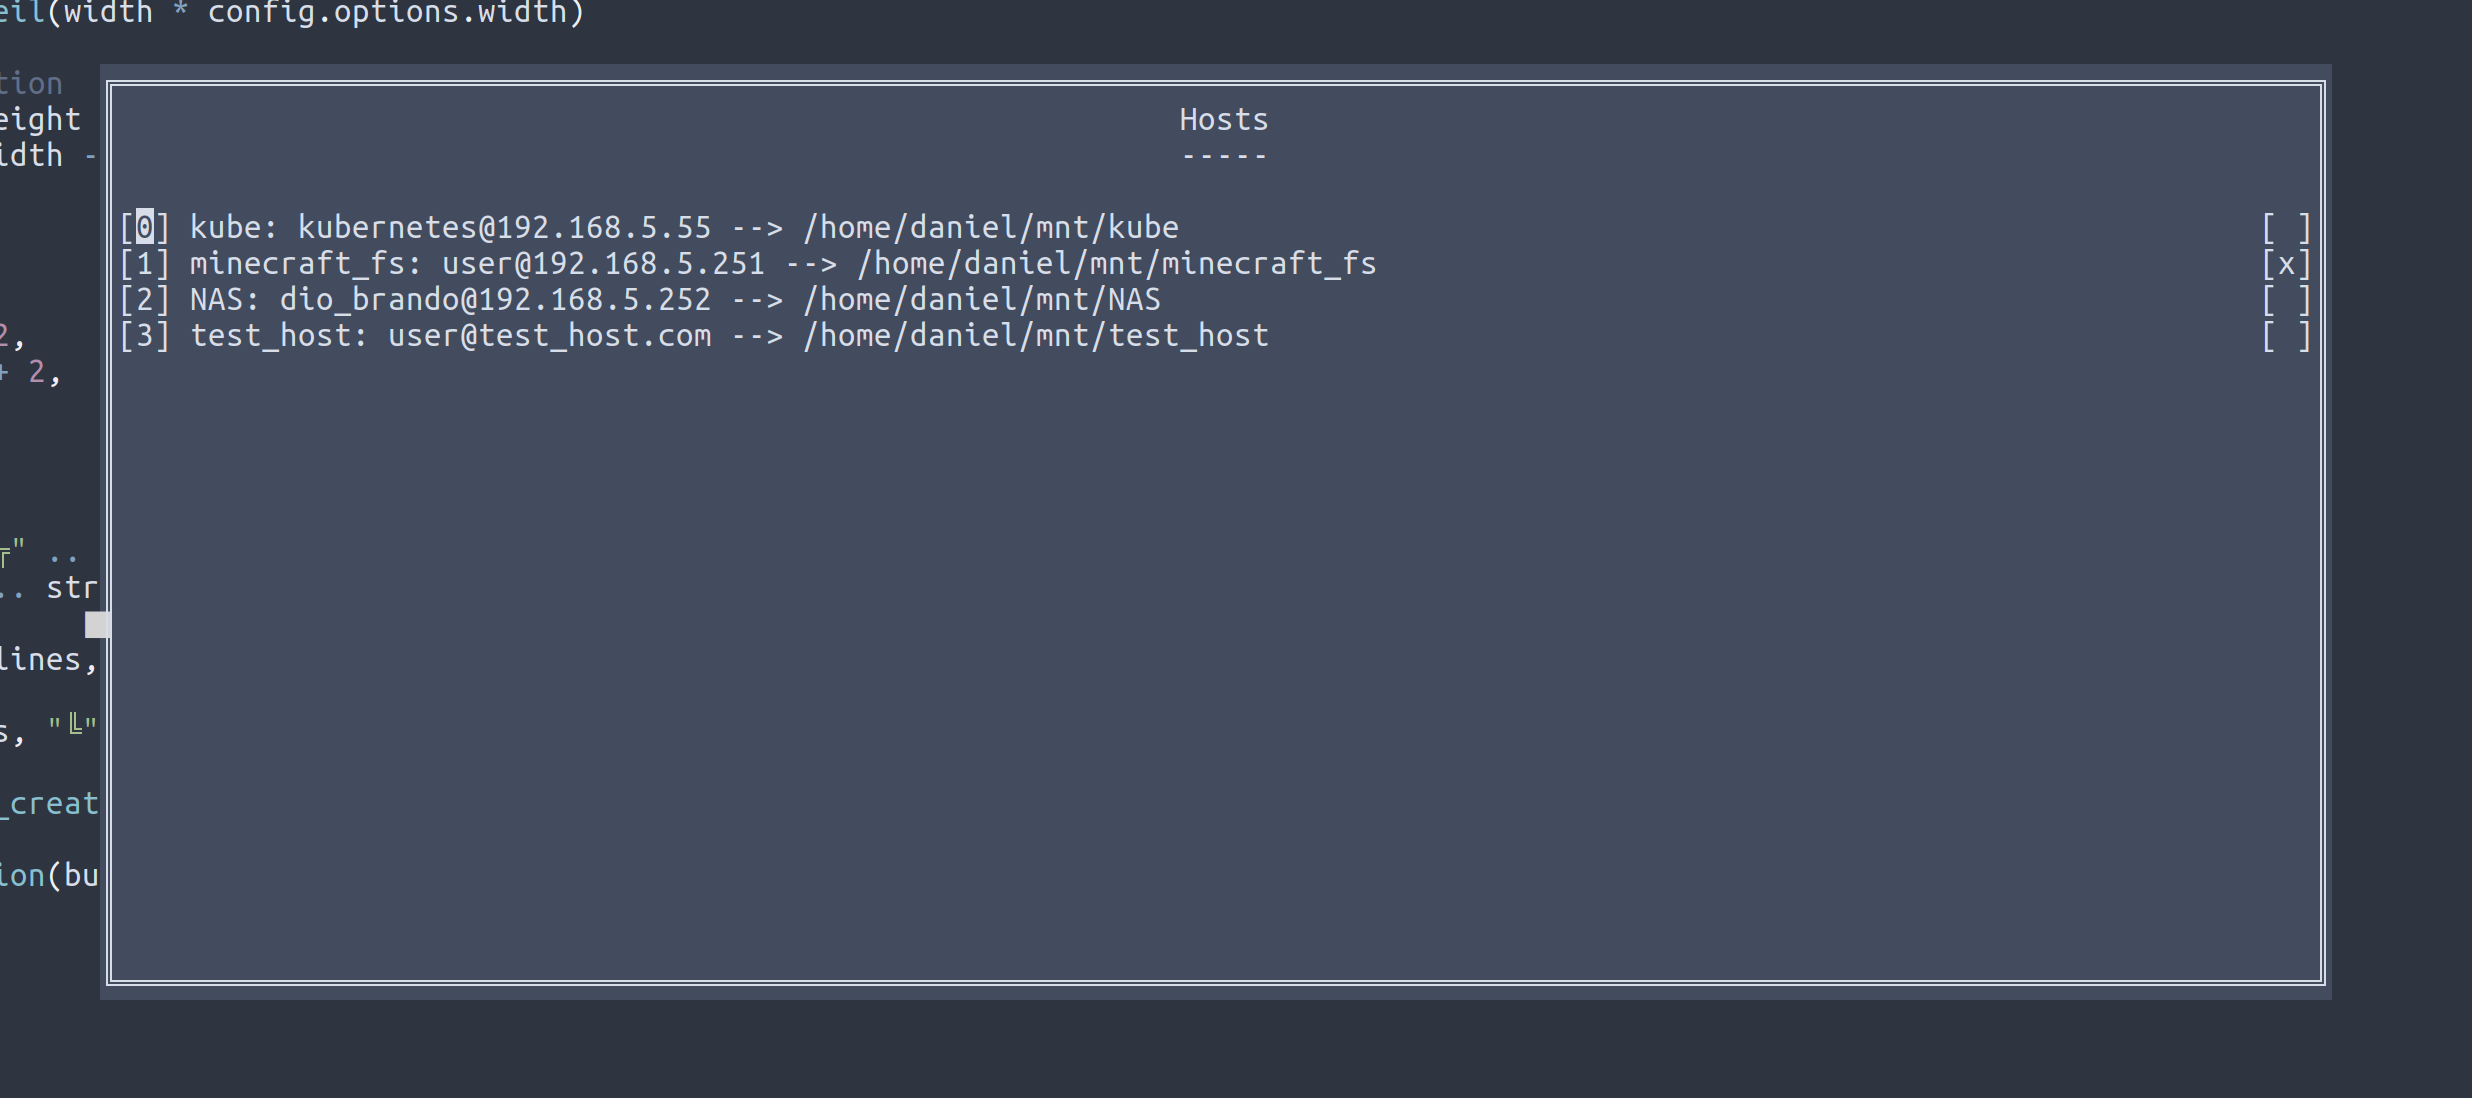
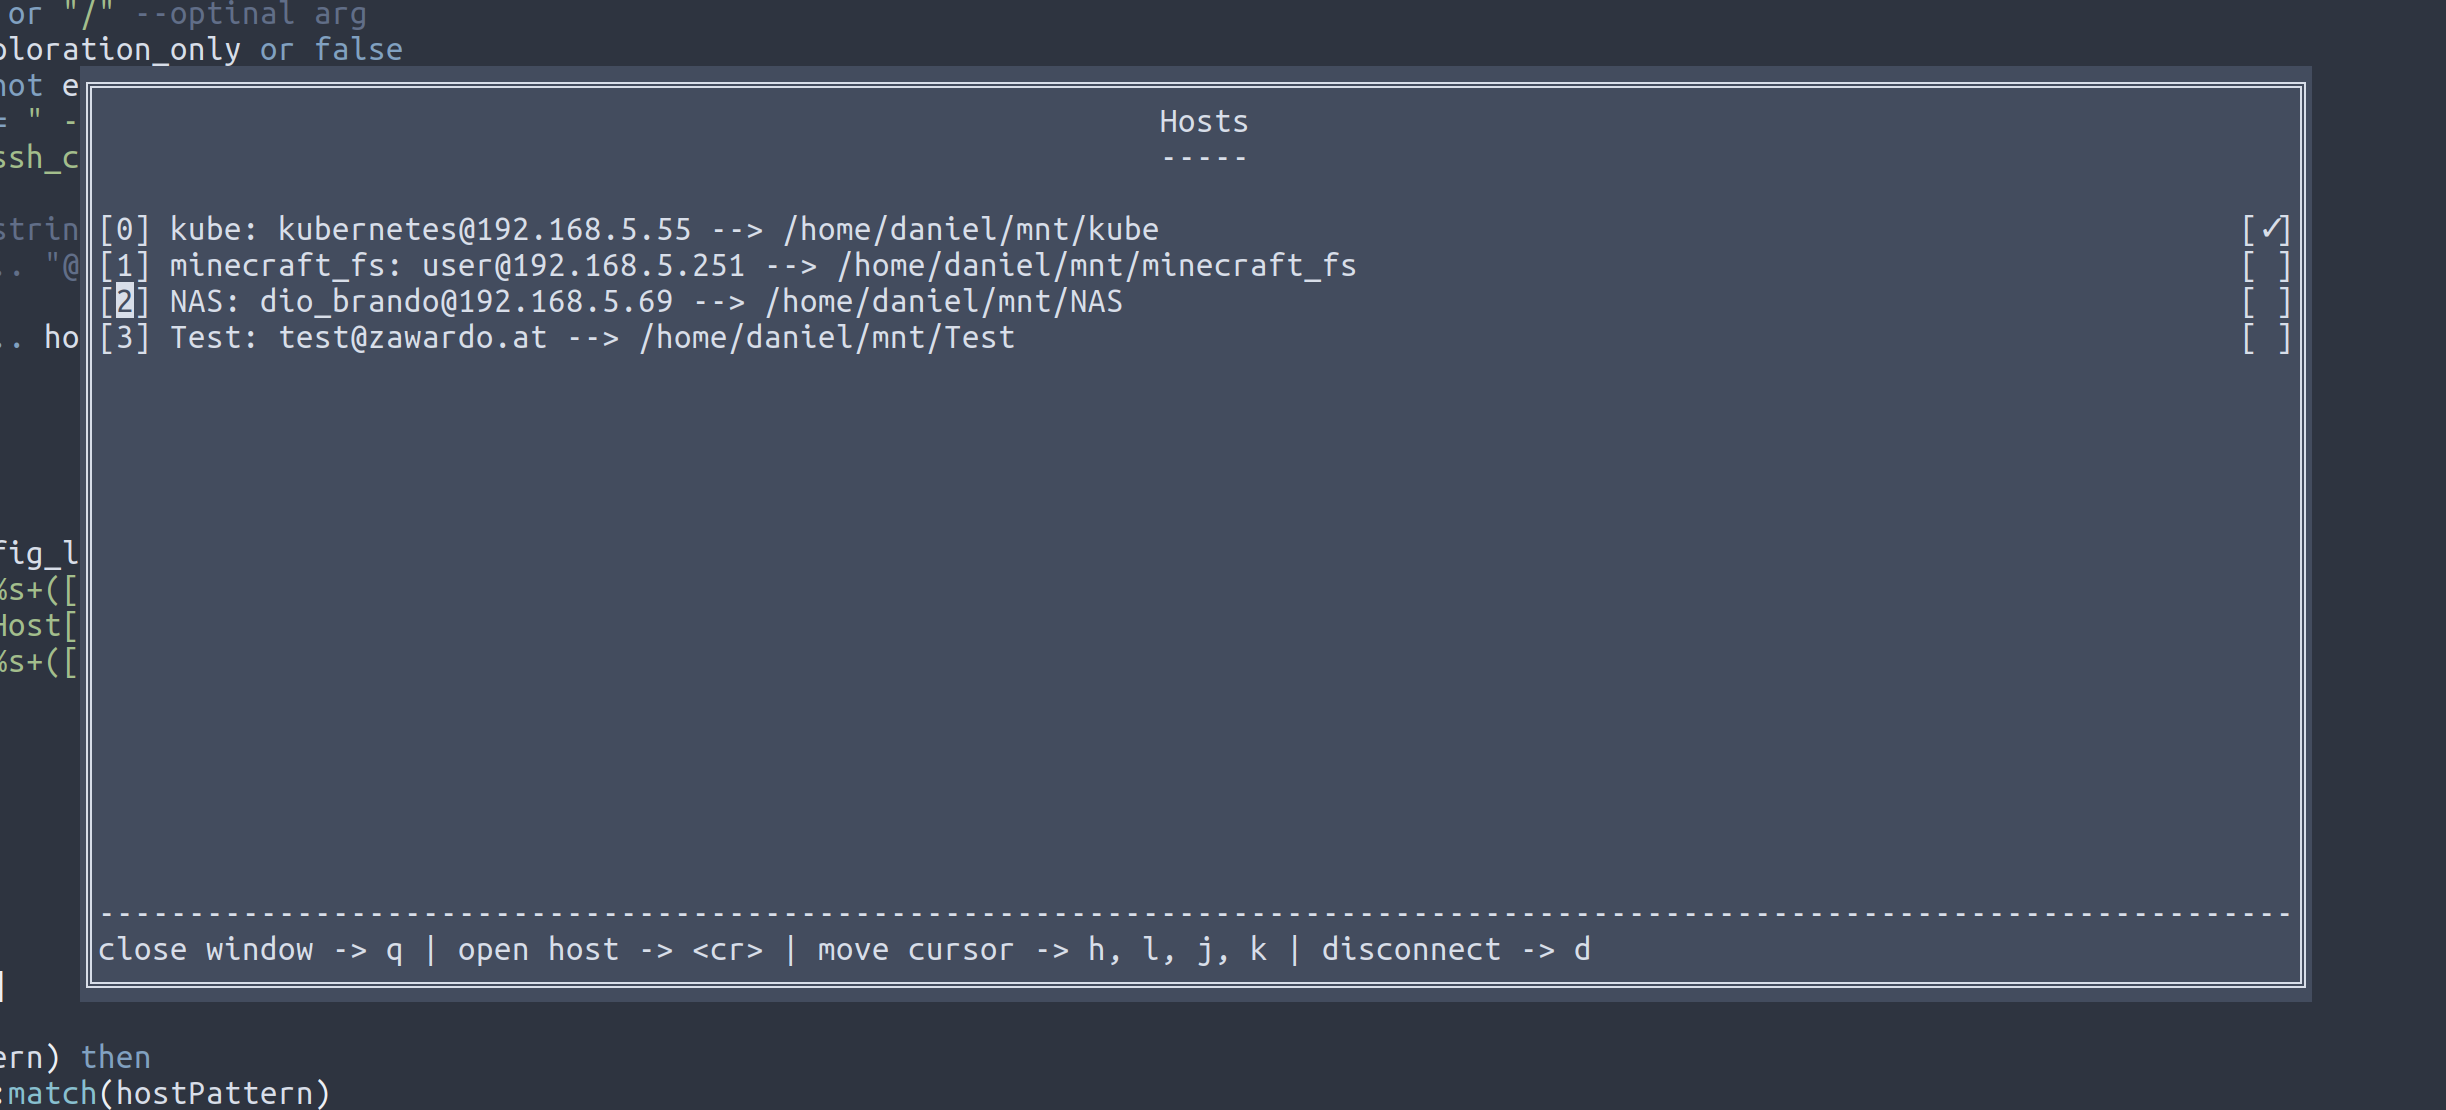
README

Changed region(s): [[0.0, 0.0, 0.9632, 1.0]]

diff --git a/README.md b/README.md
@@ -15,7 +15,7 @@ A wrapper around sshfs for fast remote exploration and editing.
 ## Usage
 **Commands**
  * :SSHFSOpenHosts 
- * :SSHFSOpenQuickConnect 
+ * :SSHFSOpenQuickConnect (Experimental)
 
 ### Keybindings for host window
  * q: close hosts window
@@ -35,7 +35,7 @@ This allows for changes to be made to the files without starting sshfs as root
 
 # Set the maximum number of FUSE mounts allowed to non-root users.
 # The default is 1000.
-#mount_max = 1000
+# mount_max = 1000
 
 # Allow non-root users to specify the allow_other or allow_root mount options.
 user_allow_other <-- Add this line
@@ -47,6 +47,7 @@ require("sshfs").setup {
 	mnt_base_dir = vim.fn.expand("$HOME") .. "/mnt",
 	width = 0.6, -- host window width
 	height = 0.5, -- host window height
+	connection_icon = "✓", -- icon for connection indication
 }
 ```
 
